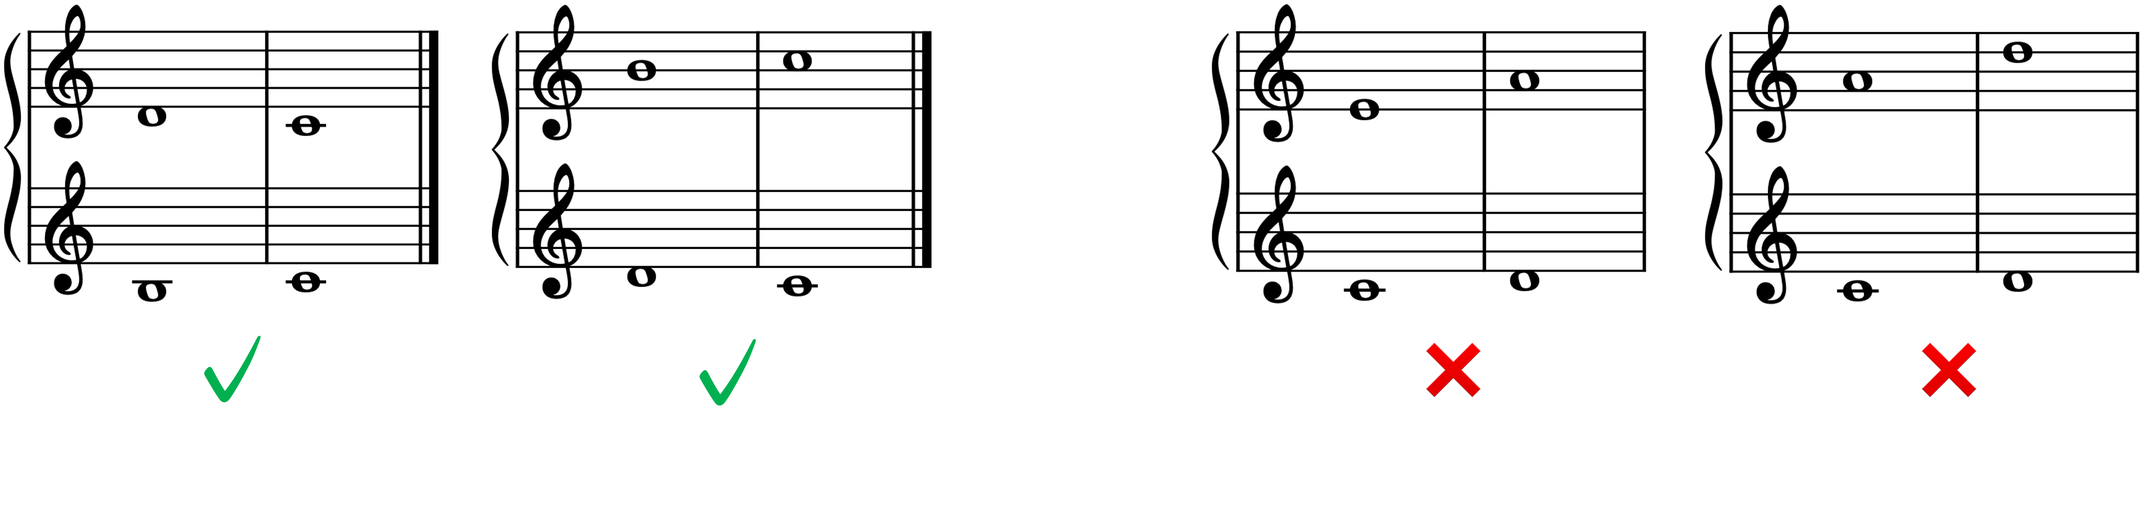
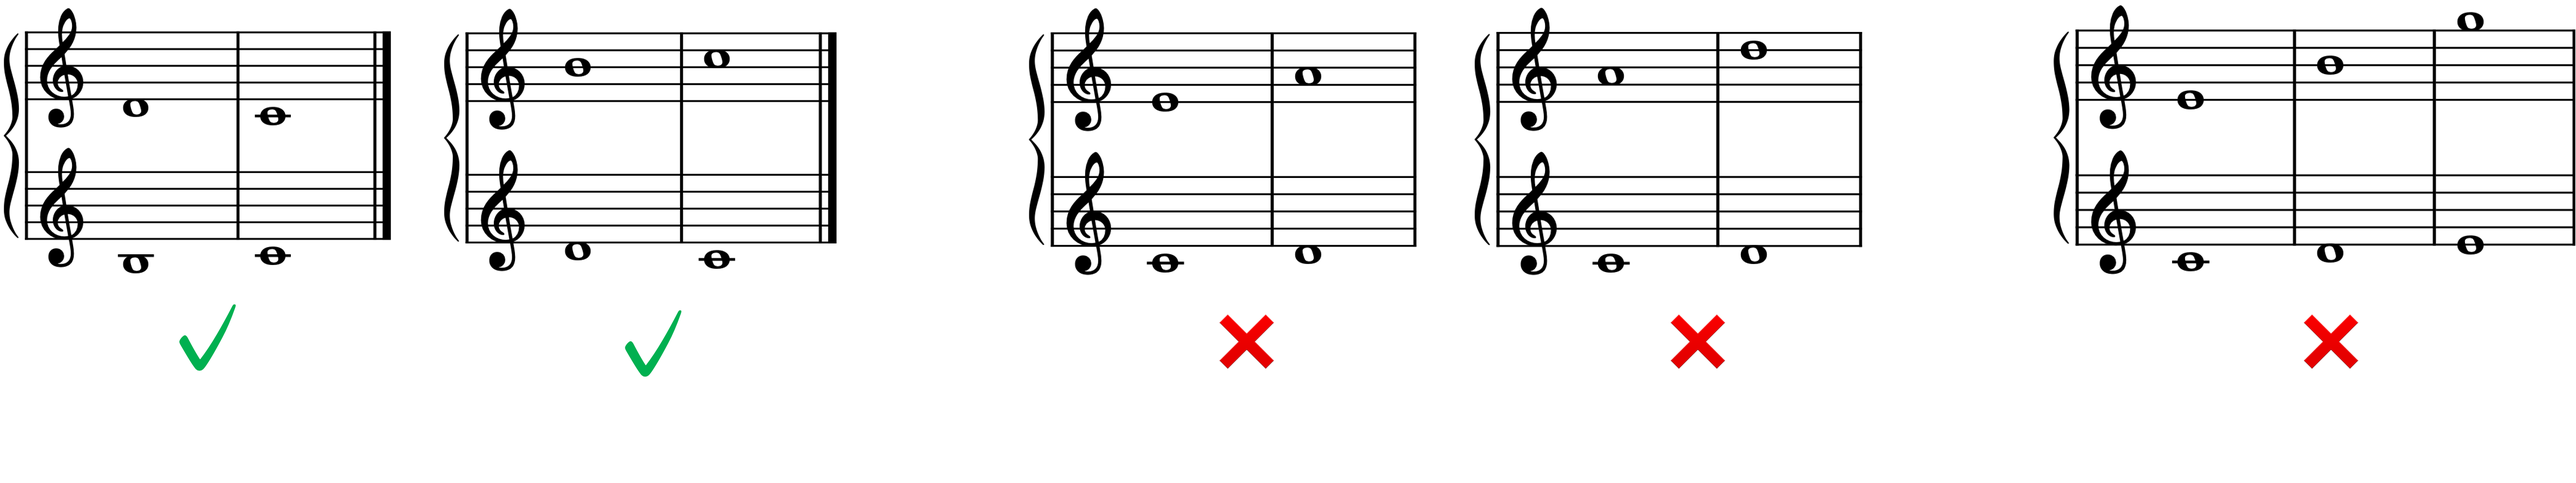
add a rule to background

diff --git a/farm26/dusa-implementation.tex b/farm26/dusa-implementation.tex
@@ -1,5 +1,3 @@
-\newcommand{\YE}[1]{\textcolor{blue}{\textbf{YE:} #1}}
-
 \YE{a question about the naming:  I used "time step" when talking about the argument T used in the code, but what would be the proper way to refer to T? (at time T, at step T, at position T)}\\
 
 \YE{Another note about naming:
@@ -86,7 +84,7 @@ Note that the implementation does not have duration information for the notes. T
 
 \subsection{Implemented Rules}
 
-The counterpoint rules applied are adapted from a mixture of first species of counterpoint rules from Fux~\cite{fux-cp} and Tonesavvy's interactive counterpoint exercises~\cite{tonesavvy}. Rules can be categorized into two based on whether they are related to the distance between a cantus firmus and counterpoint note at a specific time step \texttt{T}, or related to the movement in the counterpoint or counterpoint and cantus firmus together as vertical and horizontal.
+The counterpoint rules applied are adapted from a mixture of first species of counterpoint rules from Fux~\cite{fux-cp} and ToneSavvy's interactive counterpoint exercises~\cite{tonesavvy}. Rules can be categorized into two based on whether they are related to the distance between a cantus firmus and counterpoint note at a specific time step \texttt{T}, or related to the movement in the counterpoint or counterpoint and cantus firmus together as vertical and horizontal.
 
 \subsubsection{Vertical Constraints}
 The common feature of these rules is that they concern the properties of individual intervals. Because the rules in this set are evaluated according to their position on the vertical axis, they can be thought of as governing the harmony. The rules are as follows:

diff --git a/farm26/background.tex b/farm26/background.tex
@@ -4,7 +4,7 @@
 \subsection{Counterpoint}
 
 \begin{figure*}
-  \includegraphics[width=12cm]{rules.png}
+  \includegraphics[width=16cm]{rules.png}
   \vspace{-6mm}
   \caption{Key Rules of First-Species Counterpoint}
   \label{fig:rules}
@@ -37,16 +37,18 @@ Fux~\cite{fux-cp}.
     The last interval must be either a unison or an octave, and it
     must be approached by stepwise contrary motion
     (Figure~\ref{fig:rules} left).
-    Such a progression is called a cadence, and it creates a sense of
-    resolution.
+    The required progression is called a cadence, and it creates a
+    sense of resolution.
     
   \item \textbf{No direct fifth or octave.}
     Fifths and octaves cannot be approached when the two voices move
-    in the same direction (Figure~\ref{fig:rules} right).
+    in the same direction (Figure~\ref{fig:rules} middle).
     The forbidden progression is called a direct fifth or octave, and
     it destroys the independence of the voices.
 
-  % \item \textbf{No more than 3 leaps in a row.}
-  %   The counterpoint line should not contain more than 3 consecutive
-  %   non-step motions (Figure~\ref{fig:rules} right).
+  \item \textbf{No successive large leaps in the same direction.}
+    The counterpoint line should not move in a certain direction by
+    successive large intervals, namely fifths and sixth
+    (Figure~\ref{fig:rules} right).
+    Such a motion disrupts the flow of the melody.
 \end{itemize}

diff --git a/farm26/main.tex b/farm26/main.tex
@@ -27,6 +27,8 @@
 
 \renewcommand{\shortauthors}{XX et al.}
 
+\newcommand{\YE}[1]{\textcolor{blue}{\textbf{YE:} #1}}
+
 \begin{abstract}
 
 \end{abstract}
